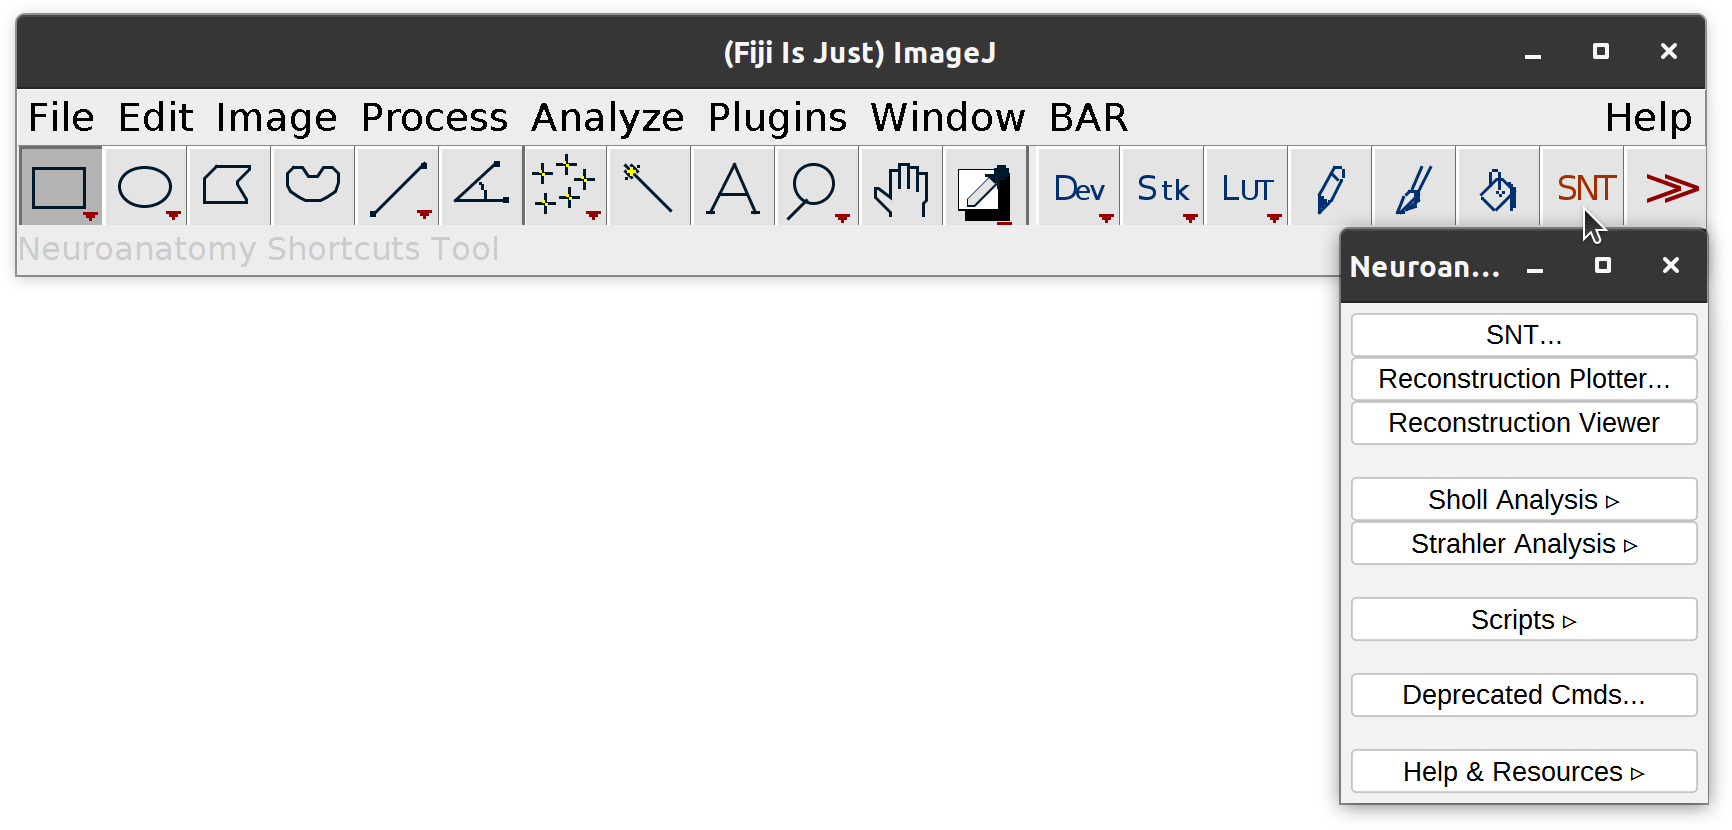
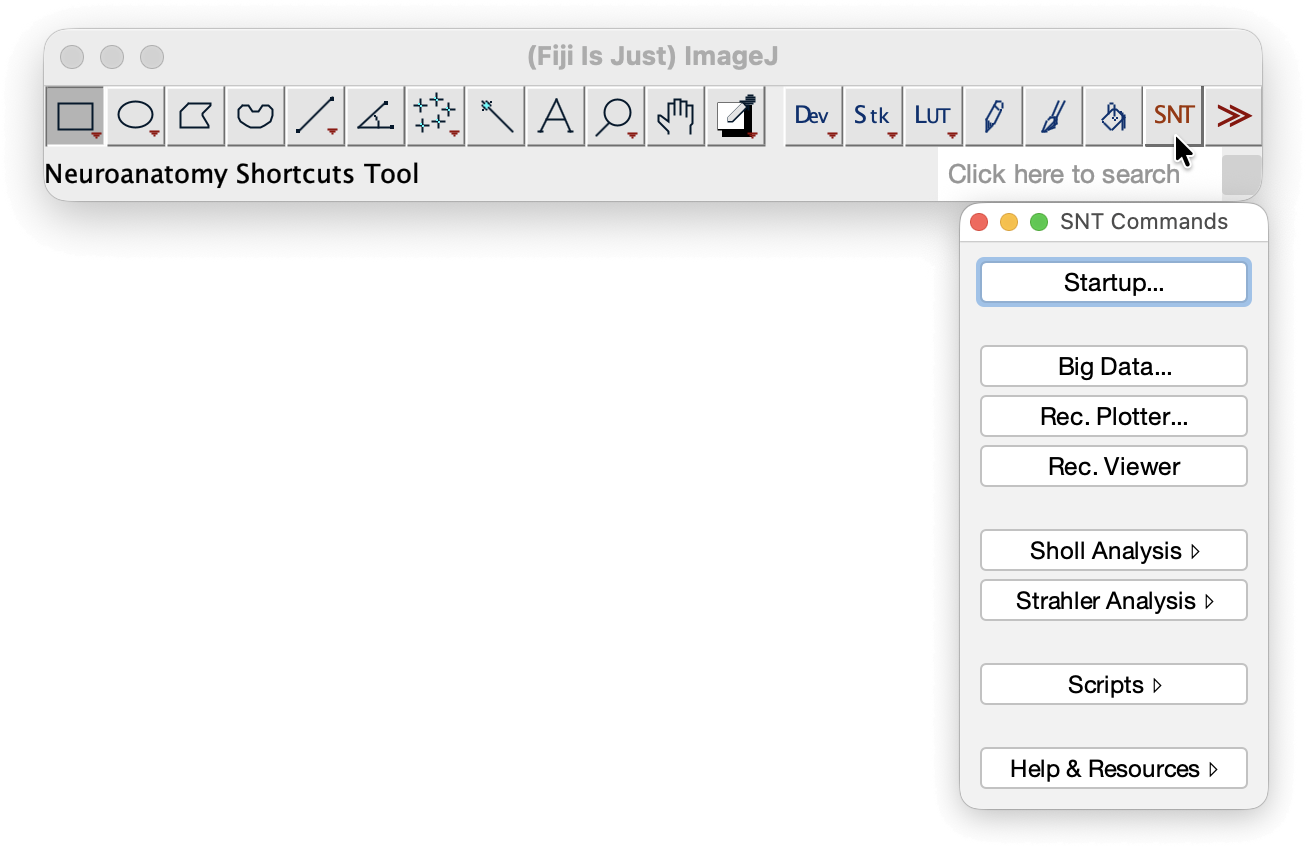
update screenshots

Changed region(s): [[0.0, 0.0, 1.0, 0.994]]

diff --git a/_pages/plugins/snt/manual.md b/_pages/plugins/snt/manual.md
@@ -15,14 +15,11 @@ Please help us to keep up-to-date documentation by [editing](https://github.com/
 {% include notice icon="snt" content=version %}
 
 # SNT Commands
+<img align="right" width="50%" src="/media/plugins/snt/snt-shortcuts-window.png" alt="The Shortcuts panel can be toggled using the SNT icon in the ImageJ toolbar" title="The Shortcuts panel can be toggled using the SNT icon in the ImageJ toolbar" />
 
 SNT registers commands in Fiji's menu structure in the {% include bc path='Plugins|Neuroanatomy|' %} sub-menu, namely:
 
 **SNT Shortcuts Window** A toolbar panel listing common entry points to SNT functionality, including viewer, scripts, and analyses. It can be open via {% include bc path='Plugins|Neuroanatomy|' %}, or more easily, by pressing *SNT* in the ImageJ toolbar:
-
-<div align="center">
-    <img align="center" width="40%" src="/media/plugins/snt/snt-shortcuts-window.png" alt="The Shortcuts panel can be toggled using the SNT icon in the ImageJ toolbar" title="The Shortcuts panel can be toggled using the SNT icon in the ImageJ toolbar" />
-</div>
 
 **[Startup...](#startup-prompt)...** Loads SNT's "full suite" interface. This is the recommended choice for operations requiring traditional images (tracing, editing, curation, analyses requiring access to pixel data, etc.)
 

diff --git a/_pages/plugins/snt/big-data.md b/_pages/plugins/snt/big-data.md
@@ -35,7 +35,7 @@ The following operations are currently supported:
 <sup>2</sup>See [PySNT](https://pysnt.readthedocs.io/en/latest/)
 
 ## Getting Started
-<img align="right" width="450" src="/media/plugins/snt/snt_big_data_prompt.png" alt="Big Data Prompt (v.5.1)" title="Big Data Prompt (v.5.1)" />
+<img align="right" width="500" src="/media/plugins/snt/snt_big_data_prompt.png" alt="Big Data Prompt (v.5.1)" title="Big Data Prompt (v.5.1)" />
 
 Choose _Big Data..._ from the [Shortcuts Window](./manual#snt-commands). In the prompt you can specify:
 
